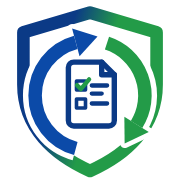
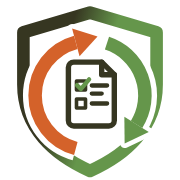
feat: atualização das cores e estilos do tema

diff --git a/frontend/src/styles.css b/frontend/src/styles.css
@@ -1,53 +1,72 @@
+/*
+ * Paleta base: #65964B verde · #363621 oliva · #E37334 laranja · #2D9687 turquesa · #E4C12B amarelo.
+ * Os tons puros vão na marca e em destaques; texto e botões usam tons derivados (mais escuros
+ * no claro, mais claros no escuro) para passar no contraste mínimo de 4,5:1 (WCAG AA).
+ * Papéis: laranja = cor principal (ações, links, foco e a seta que sobe na marca — o tom de
+ * "finanças") · oliva = texto e superfícies · turquesa = secundária · verde = sucesso ·
+ * amarelo = aviso · carmim (derivado do laranja, puxado para o vermelho) = erro, bem distante
+ * do laranja para "clique aqui" não se confundir com "deu errado".
+ */
 :root {
   color-scheme: light;
-  --fundo: #f7f8fa;
-  --superficie: #ffffff;
-  --borda: #e7e9ee;
-  --borda-forte: #d6dae1;
-  --texto: #14181f;
-  --texto-suave: #6b7480;
-  --acento: #1f5fd0;
-  --acento-hover: #1a51b3;
+  --fundo: #f5f4ec;
+  --superficie: #fffefa;
+  --borda: #e4e2d3;
+  --borda-forte: #cfccb8;
+  --texto: #363621;
+  --texto-suave: #6a6950;
+  --acento: #b4501a;
+  --acento-hover: #9a4415;
   --acento-texto: #ffffff;
-  --acento-suave: #eef3fd;
-  --realce: #f4f6f9;
-  --erro: #c0392f;
-  --erro-fundo: #fdf3f2;
-  --sucesso: #1e7a46;
-  --sucesso-fundo: #edf7f0;
-  --alerta: #9a6100;
-  --alerta-fundo: #fdf5e6;
-  --codigo-fundo: #fafbfc;
-  --sombra: 0 1px 2px rgba(20, 24, 31, 0.05), 0 1px 3px rgba(20, 24, 31, 0.04);
-  --marca-azul: #0b4aa8;
-  --marca-verde: #239b48;
-  --marca-doc: #0b3a86;
+  --acento-suave: #fcebdd;
+  --destaque: #d4622a;
+  --secundaria: #1f7a6e;
+  --secundaria-suave: #e3f2ef;
+  --realce: #efeee3;
+  --erro: #b0243a;
+  --erro-fundo: #fbe6ea;
+  --sucesso: #4a7337;
+  --sucesso-fundo: #ebf3e5;
+  --alerta: #7d6400;
+  --alerta-fundo: #fbf3d0;
+  --codigo-fundo: #faf9f3;
+  --sombra: 0 1px 2px rgba(54, 54, 33, 0.06), 0 1px 3px rgba(54, 54, 33, 0.05);
+  --sombra-janela: 0 12px 40px rgba(54, 54, 33, 0.2);
+  --fundo-janela: rgba(54, 54, 33, 0.45);
+  --marca-seta: #d4622a;
+  --marca-verde: #65964b;
+  --marca-doc: #363621;
 }
 
 :root[data-tema='escuro'] {
   color-scheme: dark;
-  --fundo: #14161a;
-  --superficie: #1b1e23;
-  --borda: #2a2e35;
-  --borda-forte: #3a3f48;
-  --texto: #e6e9ee;
-  --texto-suave: #949dab;
-  --acento: #5b8def;
-  --acento-hover: #729cf2;
-  --acento-texto: #0f1114;
-  --acento-suave: #1e2735;
-  --realce: #22262c;
-  --erro: #f08a80;
-  --erro-fundo: #2a1d1c;
-  --sucesso: #6fcf97;
-  --sucesso-fundo: #1b2a21;
-  --alerta: #e8b45a;
-  --alerta-fundo: #2c2415;
-  --codigo-fundo: #16181c;
+  --fundo: #1b1b11;
+  --superficie: #24241a;
+  --borda: #36362a;
+  --borda-forte: #4a4a38;
+  --texto: #f2f0e3;
+  --texto-suave: #b0ae96;
+  --acento: #ec8a50;
+  --acento-hover: #f19f6c;
+  --acento-texto: #1b1b11;
+  --acento-suave: #3a2a1b;
+  --destaque: #ec8a50;
+  --secundaria: #3fb3a3;
+  --secundaria-suave: #1d3430;
+  --realce: #2e2e21;
+  --erro: #f27a8e;
+  --erro-fundo: #3b1c22;
+  --sucesso: #95c979;
+  --sucesso-fundo: #243320;
+  --alerta: #e4c12b;
+  --alerta-fundo: #352f14;
+  --codigo-fundo: #1f1f15;
   --sombra: none;
-  --marca-azul: #5b8def;
-  --marca-verde: #4cc26f;
-  --marca-doc: #8fb2f5;
+  --sombra-janela: 0 12px 40px rgba(0, 0, 0, 0.45);
+  --fundo-janela: rgba(10, 10, 5, 0.6);
+  --marca-seta: #ec8a50;
+  --marca-verde: #8cc26e;
+  --marca-doc: #f2f0e3;
 }
 
 * {
@@ -77,8 +96,8 @@ body {
 /* ---------- Marca ---------- */
 
 /* Cores do desenho da marca (Marca.tsx), ligadas aos tokens do tema. */
-.mk-a { fill: var(--marca-azul); }
-.mk-as { stroke: var(--marca-azul); }
+.mk-a { fill: var(--marca-seta); }
+.mk-as { stroke: var(--marca-seta); }
 .mk-v { fill: var(--marca-verde); }
 .mk-vs { stroke: var(--marca-verde); }
 .mk-ds { stroke: var(--marca-doc); }
@@ -107,7 +126,27 @@ body {
 }
 
 .marca-finan {
-  color: var(--marca-verde);
+  color: var(--acento);
+}
+
+/* No login o nome é grande (texto grande pede só 3:1), então cabe o laranja mais vivo. */
+.login-nome .marca-finan {
+  color: var(--destaque);
+}
+
+/* Filete laranja sob o título da página e no topo do card de login. */
+.titulo-pagina::after {
+  content: '';
+  display: block;
+  width: 44px;
+  height: 3px;
+  margin-top: 10px;
+  border-radius: 2px;
+  background: var(--destaque);
+}
+
+.pagina-login .painel {
+  border-top: 3px solid var(--destaque);
 }
 
 .login-marca {
@@ -266,7 +305,7 @@ h1 {
   min-width: 0;
   padding: 5px 12px;
   border-radius: 999px;
-  background: var(--acento-suave);
+  background: var(--secundaria-suave);
   color: var(--texto);
 }
 
@@ -674,11 +713,11 @@ h1 {
   border-radius: 14px;
   background: var(--superficie);
   color: var(--texto);
-  box-shadow: 0 12px 40px rgba(0, 0, 0, 0.18);
+  box-shadow: var(--sombra-janela);
 }
 
 .janela::backdrop {
-  background: rgba(10, 12, 16, 0.45);
+  background: var(--fundo-janela);
 }
 
 .janela-conteudo {

diff --git a/frontend/index.html b/frontend/index.html
@@ -10,8 +10,8 @@
     <link rel="icon" href="/favicon.svg" type="image/svg+xml" />
     <link rel="apple-touch-icon" href="/apple-touch-icon.png" />
     <link rel="manifest" href="/site.webmanifest" />
-    <meta name="theme-color" content="#f7f8fa" media="(prefers-color-scheme: light)" />
-    <meta name="theme-color" content="#14161a" media="(prefers-color-scheme: dark)" />
+    <meta name="theme-color" content="#f5f4ec" media="(prefers-color-scheme: light)" />
+    <meta name="theme-color" content="#1b1b11" media="(prefers-color-scheme: dark)" />
     <script>
       // Aplica o tema antes da primeira pintura, para nao piscar branco no modo escuro.
       (function () {

diff --git a/frontend/src/App.tsx b/frontend/src/App.tsx
@@ -89,7 +89,7 @@ export default function App() {
 
       {logado ? (
         <main className="pagina">
-          <h1>Extração de dados de nota fiscal</h1>
+          <h1 className="titulo-pagina">Extração de dados de nota fiscal</h1>
           <p className="subtitulo">
             Carregue o PDF da nota fiscal para extrair os dados de contas a pagar.
           </p>
